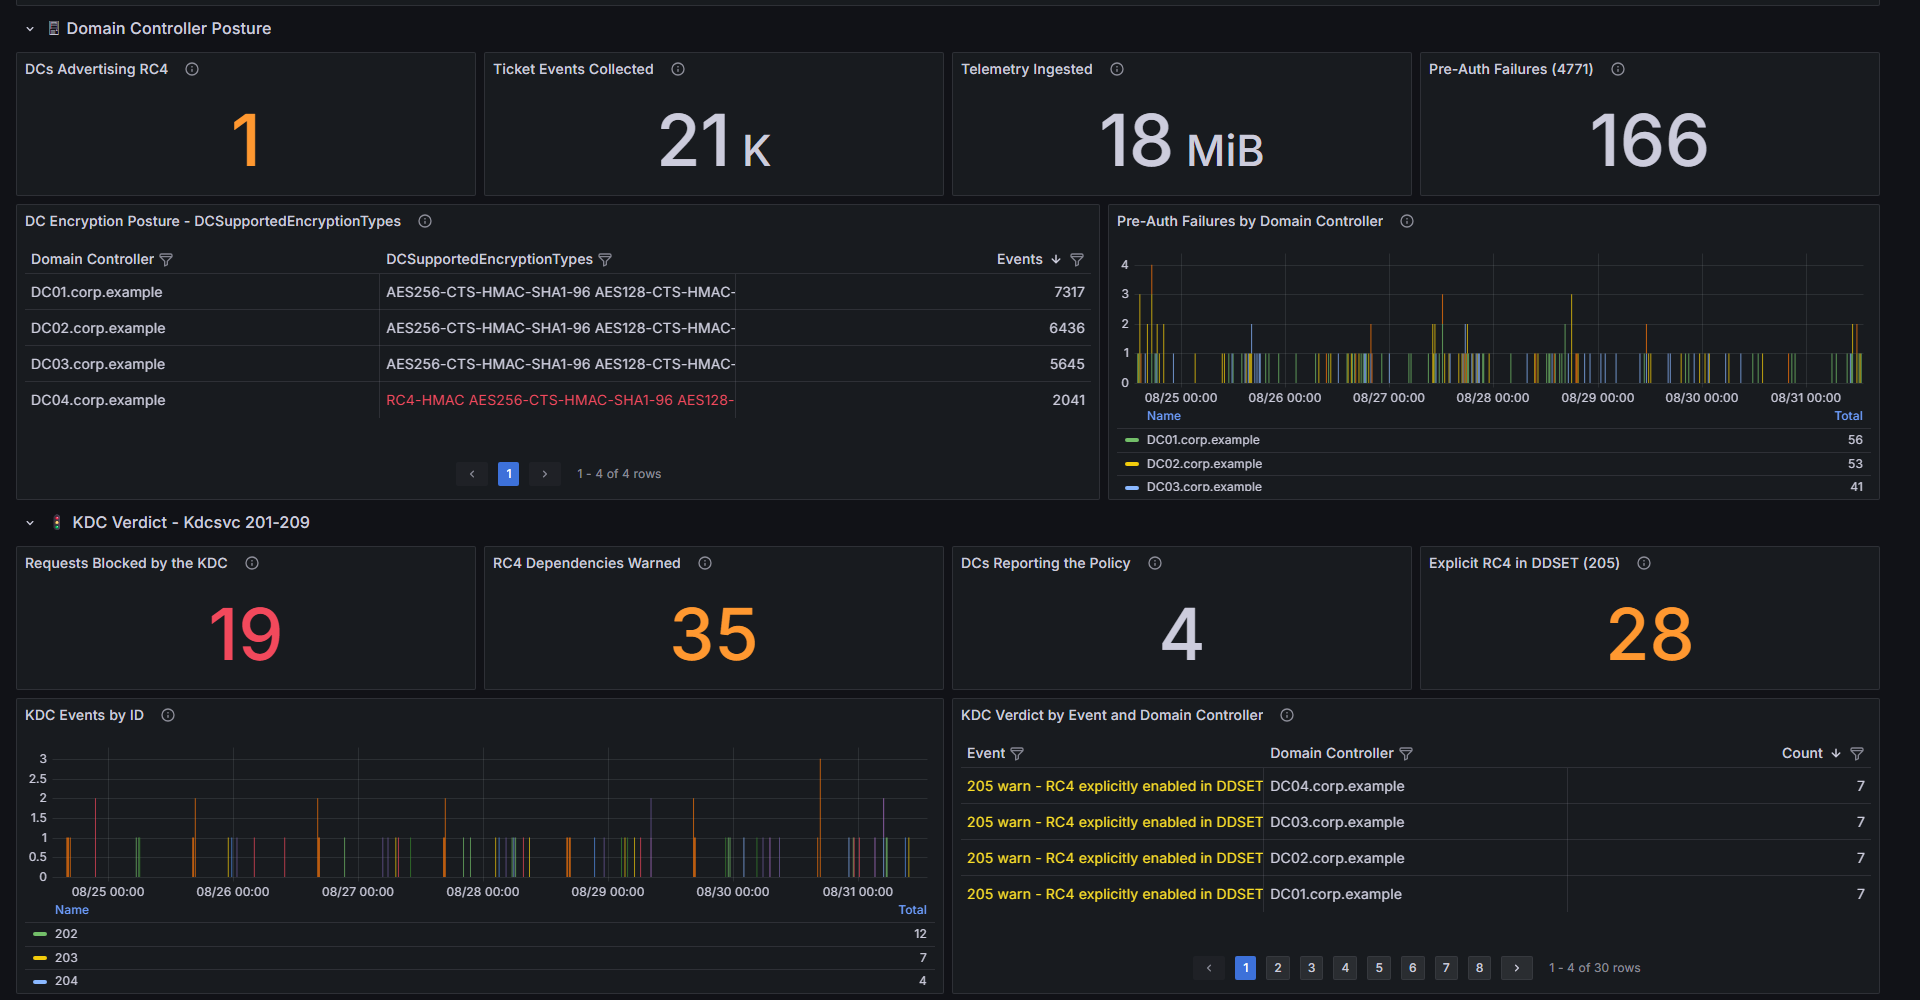
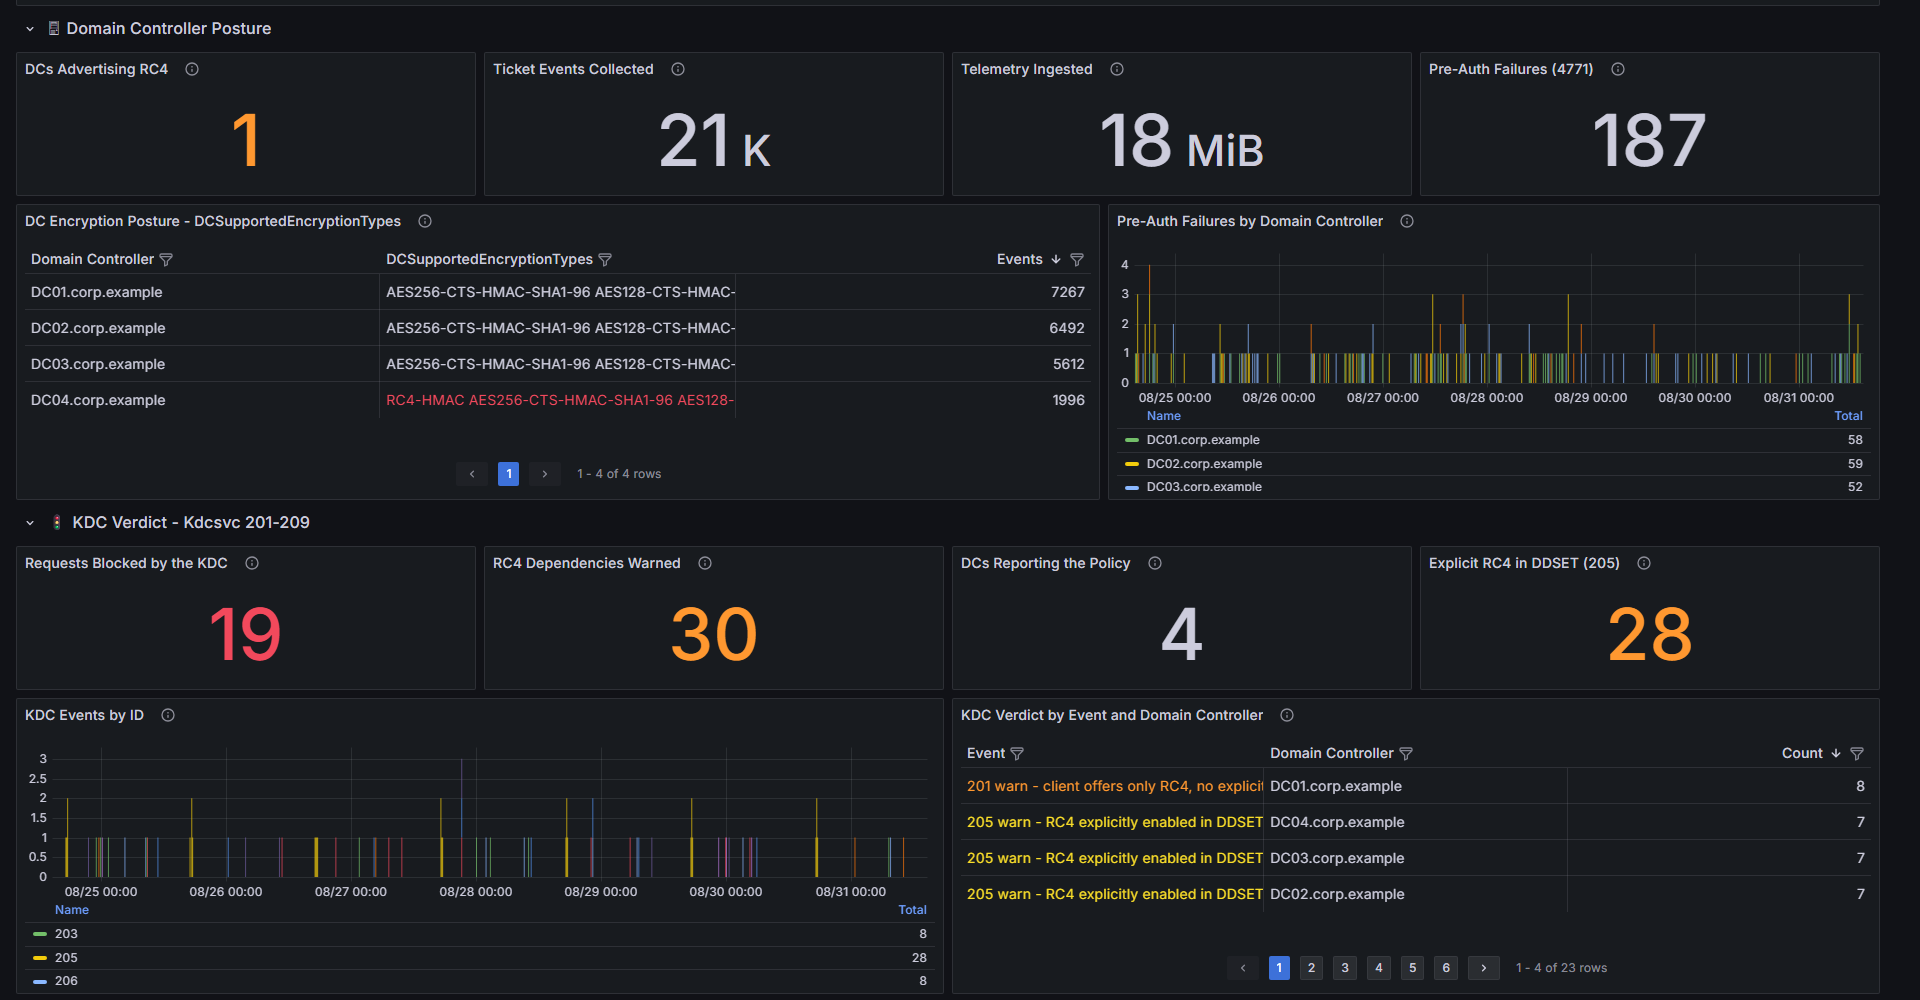
Say what each KDC event actually means
The table claimed 206 to 209 were about trusts and referrals. They are
not. Nothing in the nine events concerns trusts. 206 is the service
accepting only AES while the client advertises none, 207 is the service
configured for AES while the account holds no AES keys, and 208 and 209
are those same two conditions blocked.

Replaced with the real conditions, laid out so the pairing is visible:
203 is 201 blocked, 204 is 202, 208 is 206, 209 is 207. A blocked event
is a warning nobody acted on, and the remediation is the same one, which
is the entire argument for the audit phase.

The rollback value was wrong too. A service that genuinely still needs
RC4 gets msDS-SupportedEncryptionTypes 0x1C, RC4 plus both AES types, not
0x24, which is RC4 plus an AES256 session key and no AES long-term keys.

Demo event messages rewritten from the documented conditions, and the
screenshots regenerated so the dashboard cards in them match.

diff --git a/dashboards/kerberos-rc4/build.py b/dashboards/kerberos-rc4/build.py
@@ -273,7 +273,10 @@ CARD_FIX = card("#3fb950", "&#128736;", "Remediation guide - one object at a tim
  "after editing.<br/><br/>"
  "<b style='color:#58a6ff'>DC posture</b>: once dependent objects are clean, set "
  "<code>DefaultDomainSupportedEncTypes = 0x18</code> on the KDC. A service that genuinely needs "
- "RC4 gets a scoped <code>msDS-SET = 0x24</code> instead.<br/><br/>"
+ "RC4 gets a scoped <code>msDS-SET = 0x1C</code> (<code>28</code>, RC4 plus AES128 plus AES256) "
+ "instead, which is the value Microsoft documents for a controlled rollback. Not "
+ "<code>0x24</code>: that is RC4 plus an AES256 session key and no AES long-term keys, which is "
+ "not what you want on an account.<br/><br/>"
  "<span style='color:#8b949e'>Failure signature after enforcement: "
  "<code>KRB_AP_ERR 0xE KDC_ERR_ETYPE_NOTSUPP</code>, <code>klist 0xc00002fd</code>.</span>")
 

diff --git a/dashboards/kerberos-rc4/windows/kdc-events.md b/dashboards/kerberos-rc4/windows/kdc-events.md
@@ -51,13 +51,21 @@ one is a dead end.
 The KDC emits them when the RC4 disablement work is active on that domain
 controller. They are the KDC's own verdict:
 
-| Event | Meaning |
-|---|---|
-| 201, 202 | The KDC issued a ticket it will refuse once the next phase lands |
-| 203, 204 | The KDC **refused** a request because of encryption type |
-| 205 | RC4 explicitly enabled in the domain policy `DefaultDomainSupportedEncTypes` |
-| 206, 207 | Warnings about accounts or trusts that are not ready |
-| 208, 209 | Refusals related to trusts and referrals |
+| Event | What the KDC is telling you | |
+|---|---|---|
+| 201 | The client advertised only RC4, and the service has no `msDS-SupportedEncryptionTypes` set | issued |
+| 202 | The service account holds no AES keys, and `msDS-SupportedEncryptionTypes` is not set | issued |
+| 203 | Same condition as 201 | **blocked** |
+| 204 | Same condition as 202 | **blocked** |
+| 205 | RC4 explicitly enabled in the domain policy `DefaultDomainSupportedEncTypes` | |
+| 206 | The service accepts only AES, and the client does not advertise AES | issued |
+| 207 | The service is configured for AES, but the account holds no AES keys | issued |
+| 208 | Same condition as 206 | **blocked** |
+| 209 | Same condition as 207 | **blocked** |
+
+They come in pairs on purpose. Every blocked event has a warning with the same
+underlying cause, so a 203 today is a 201 you did not act on, and the remediation
+is identical. That pairing is the whole reason the audit phase exists.
 
 Note 205. It reports the domain policy having RC4 explicitly enabled, rather
 than one request that depended on RC4, so counting it alongside the per-request
